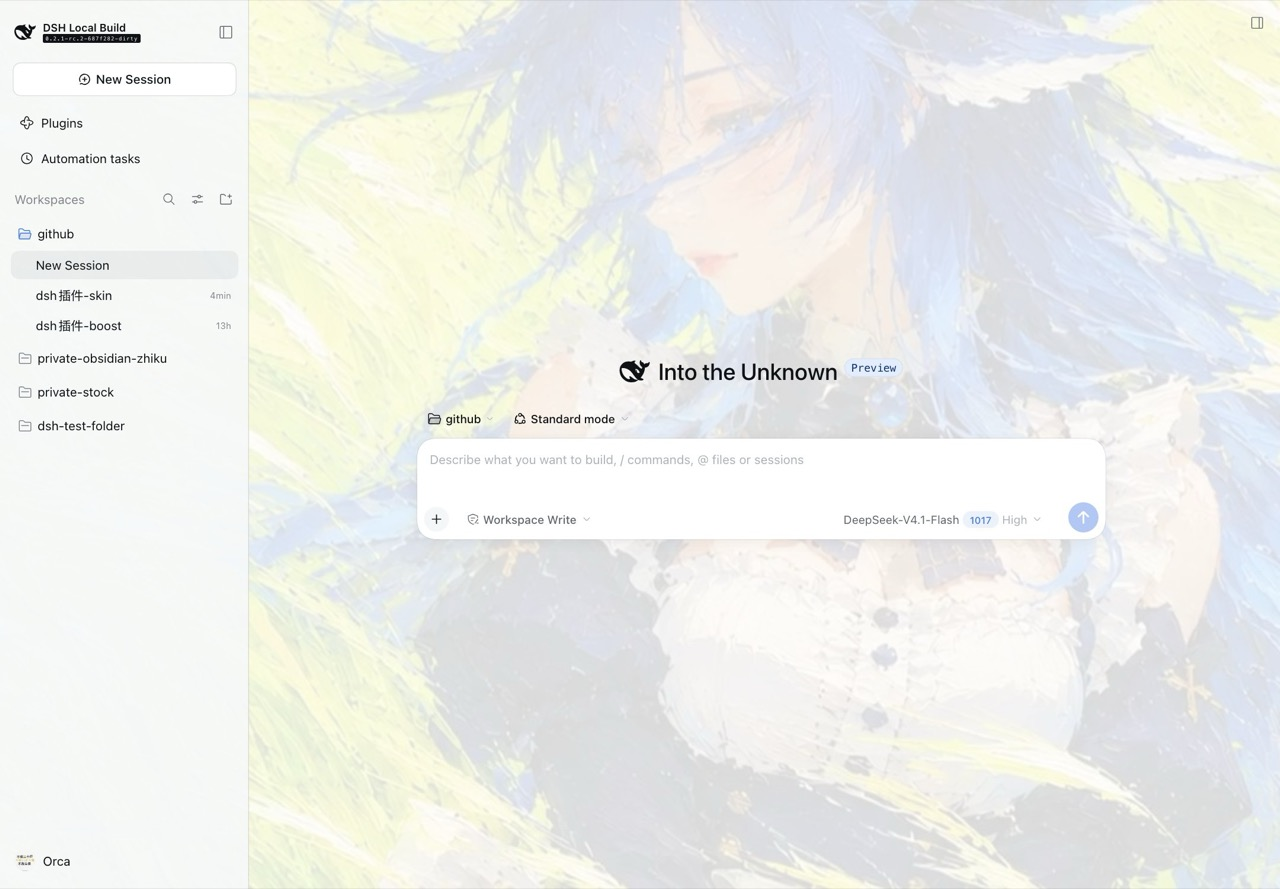
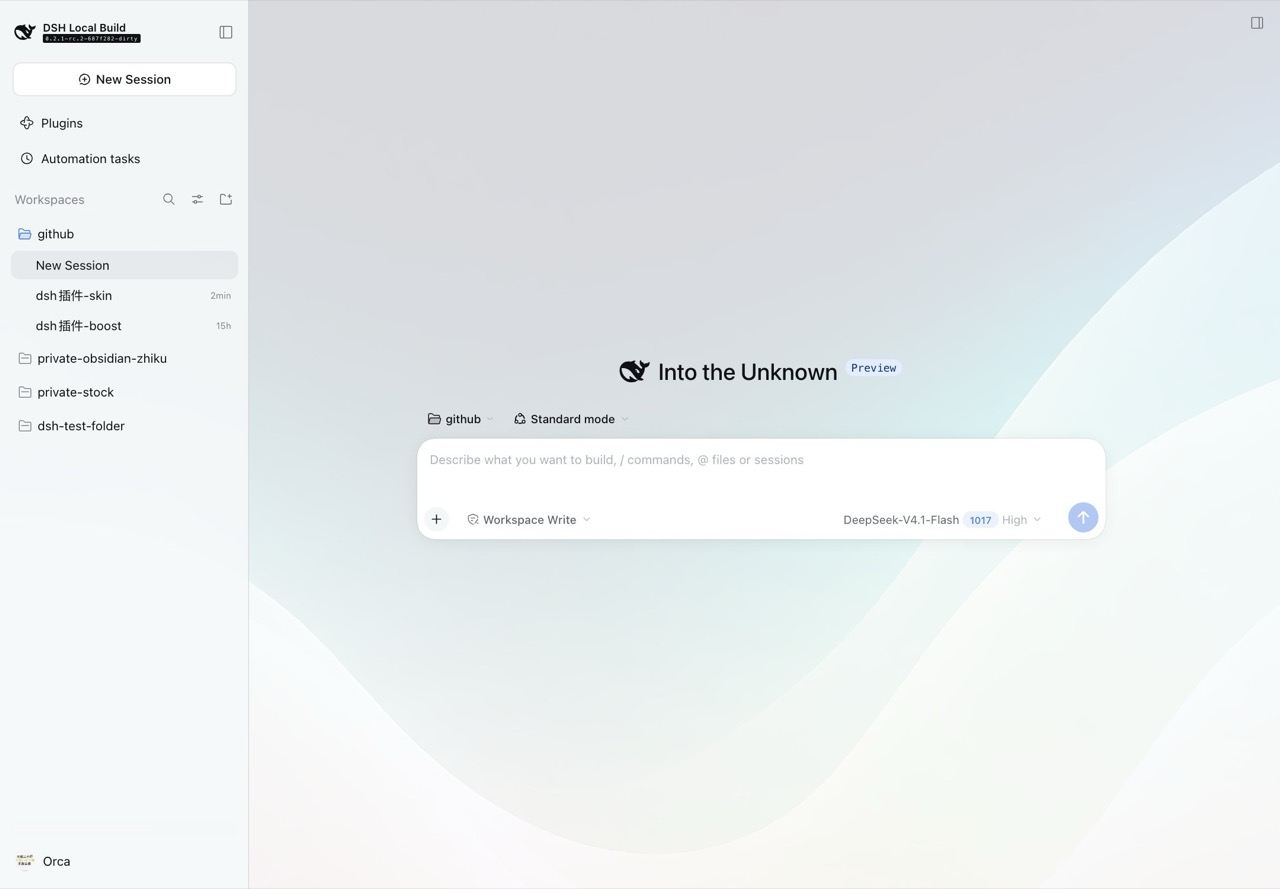
feat(shell-skin): remove the low-res classic wallpaper
Aurora becomes the default preset; old profiles naming classic fall back
to it, and the UI highlights the fallback so a stale value never leaves
the grid without a selection.

diff --git a/src/client/index.tsx b/src/client/index.tsx
@@ -16,7 +16,6 @@ import type {} from '@deepseek-ai/dsh-client-ui-renderer/client'
 import { useEffect, useState } from 'react'
 import { createPortal } from 'react-dom'
 import type { ReactElement } from 'react'
-import wallpaper from '../../assets/wallpaper.jpg'
 import wallpaperArc from '../../assets/wallpaper-arc.jpg'
 import wallpaperAurora from '../../assets/wallpaper-aurora.jpg'
 import wallpaperWhale1 from '../../assets/wallpaper-whale-1.jpg'
@@ -36,7 +35,6 @@ const NAV_GLYPH = `<svg xmlns="http://www.w3.org/2000/svg" viewBox="0 0 1024 102
 
 /** Bundled artwork choices, in settings order. */
 const PRESETS: readonly { id: string; src: string; labelKey: SkinKey }[] = [
-  { id: 'classic', src: wallpaper, labelKey: 'preset.classic' },
   { id: 'aurora', src: wallpaperAurora, labelKey: 'preset.aurora' },
   { id: 'arc', src: wallpaperArc, labelKey: 'preset.arc' },
   { id: 'whale-1', src: wallpaperWhale1, labelKey: 'preset.whale1' },
@@ -47,7 +45,7 @@ const PRESETS: readonly { id: string; src: string; labelKey: SkinKey }[] = [
 const PRESET_SOURCES: Record<string, string> = Object.fromEntries(PRESETS.map(item => [item.id, item.src]))
 
 /** Preset used when the config names one that no longer ships. */
-const DEFAULT_PRESET = 'classic'
+const DEFAULT_PRESET = 'aurora'
 
 /**
  * Normalise a preset id from config.
@@ -112,7 +110,7 @@ const FALLBACK_SETTINGS: SkinSettings = {
   customWallpaper: false,
   randomWallpaper: false,
   bundledWallpaper: true,
-  bundledPreset: 'classic',
+  bundledPreset: 'aurora',
 }
 
 /** Accept only a hex colour from the injected settings. */
@@ -284,7 +282,7 @@ const SKIN_CSS = `
     --shell-skin-boot-light: ${settings.bootColorLight};
     --shell-skin-boot-dark: ${settings.bootColorDark};
     background-color: var(--shell-skin-boot-light);
-    background-image: var(--shell-skin-wallpaper, var(--shell-skin-bundled, url("${wallpaper}")));
+    background-image: var(--shell-skin-wallpaper, var(--shell-skin-bundled, none));
     background-position: center;
     background-size: cover;
     background-repeat: no-repeat;
@@ -640,7 +638,8 @@ export function apply(ctx: Context): void {
     const sync = (): void => {
       const value = form.getSnapshot().value
       if (value === undefined) return
-      applyNow({ ...currentValues, ...value })
+      // An old profile may still name a preset that no longer ships.
+      applyNow({ ...currentValues, ...value, bundledPreset: presetId(value.bundledPreset) })
     }
     // Subscribe before the first read: a change landing between the read and
     // the subscription would otherwise be lost. The replay is idempotent.

diff --git a/src/client/SkinSettingsRow.tsx b/src/client/SkinSettingsRow.tsx
@@ -110,7 +110,7 @@ const DEFAULTS: SkinConfigValues = {
   customWallpaper: false,
   randomWallpaper: false,
   bundledWallpaper: true,
-  bundledPreset: 'classic',
+  bundledPreset: 'aurora',
 }
 
 /**
@@ -563,7 +563,8 @@ export function SkinSettingsRow({ view, form, preview, listWallpapers, activeWal
         </span>
         <span style={{ display: 'grid', gridTemplateColumns: 'repeat(3, minmax(0, 1fr))', gap: 8 }}>
           {(presets ?? []).map(preset => {
-            const selected = value.bundledPreset === preset.id
+            const available = (presets ?? []).some(item => item.id === value.bundledPreset)
+            const selected = (available ? value.bundledPreset : presets?.[0]?.id) === preset.id
             return (
               <button
                 key={preset.id}

diff --git a/src/client/locales.ts b/src/client/locales.ts
@@ -31,7 +31,6 @@ export const zh = {
   'bundled.description': '没有自定义图片时，使用插件自带的壁纸。',
   'preset.title': '内置壁纸样式',
   'preset.description': '选择使用哪一张内置壁纸。',
-  'preset.classic': '当前壁纸',
   'preset.aurora': '极光',
   'preset.arc': '几何弧线',
   'preset.whale1': '鲸娘 1',
@@ -93,7 +92,6 @@ export const en: Record<SkinKey, string> = {
   'bundled.description': 'Used when no custom image applies.',
   'preset.title': 'Bundled wallpaper style',
   'preset.description': 'Which bundled artwork to use.',
-  'preset.classic': 'Classic',
   'preset.aurora': 'Aurora',
   'preset.arc': 'Arcs',
   'preset.whale1': 'Whale 1',

diff --git a/src/index.ts b/src/index.ts
@@ -61,7 +61,7 @@ export const Config = z.object({
   customWallpaper: z.boolean().default(false).volatile(),
   randomWallpaper: z.boolean().default(false).volatile(),
   bundledWallpaper: z.boolean().default(true).volatile(),
-  bundledPreset: z.string().default('classic').volatile(),
+  bundledPreset: z.string().default('aurora').volatile(),
 })
 
 /**

diff --git a/README.md b/README.md
@@ -22,7 +22,7 @@
 | 功能 | 说明 |
 |---|---|
 | **开场动画** | 页面加载时播放一段约 1.5 秒的动画，然后淡出；系统开启“减少动态效果”时自动跳过 |
-| **壁纸** | 自带五张（经典 / 极光 / 几何弧线 / 鲸娘 1 / 鲸娘 2）；也可以上传最多 9 张自己的图片，打开随机模式后每次启动换一张 |
+| **壁纸** | 自带四张（极光 / 几何弧线 / 鲸娘 1 / 鲸娘 2）；也可以上传最多 9 张自己的图片，打开随机模式后每次启动换一张 |
 | **面板透明度** | 分别控制浅色 / 深色下侧边栏和面板的透明度，拖动时实时预览 |
 | **启动时的底色** | 应用加载前先铺上颜色，避免打开瞬间闪白 |
 | **设置页** | 在「设置 → 界面皮肤」里，所有项即时生效 |
@@ -99,7 +99,7 @@ dsh plugin --profile web add "file:$PWD"
 | 自定义壁纸 / 内置壁纸 | 即时 |
 | 随机壁纸 | 即时（下次启动从已上传的图片里随机选一张） |
 | 图片 | 最多 9 张，支持一次选多张，每张上限 10 MB；点击缩略图切换，悬停右上角可删除 |
-| 内置壁纸样式 | 即时；五张缩略图，每行三张 |
+| 内置壁纸样式 | 即时；四张缩略图，每行三张 |
 | 恢复默认 | 即时重置上面所有设置项（不删除已上传的图片） |
 
 设置页底部还有两个按钮：「报告问题」打开带模板的 GitHub issue；「复制诊断信息」把版本、平台和当前设置复制到剪贴板——不含图片、文件名或任何个人信息。

diff --git a/CHANGELOG.md b/CHANGELOG.md
@@ -5,7 +5,8 @@
 ### 变更
 
 - 插件图标换成角色立绘 PNG（256×256，白底已做透明处理）。
-- 内置壁纸增加两张可选样式：极光、几何弧线；默认仍是原来的那张，可在设置里切换。
+- 内置壁纸增加两张可选样式：极光、几何弧线，默认改用极光。
+- 移除原来的经典壁纸（1120×630，在 2K 屏上偏糊）；旧配置里的 `classic` 会自动回退到极光。
 - 内置壁纸再增加两张角色立绘（鲸娘 1 / 鲸娘 2）。打包用 1920×1080 JPEG，原图保留在 `assets/master/`，不随 npm 包发布。
 - 自定义壁纸最多保留 9 张，支持一次选多张；点击缩略图切换当前使用的那张，旧版单图记录会自动迁移。
 - 新增「随机壁纸」开关：打开后每次启动从已上传的图片里随机选一张。
